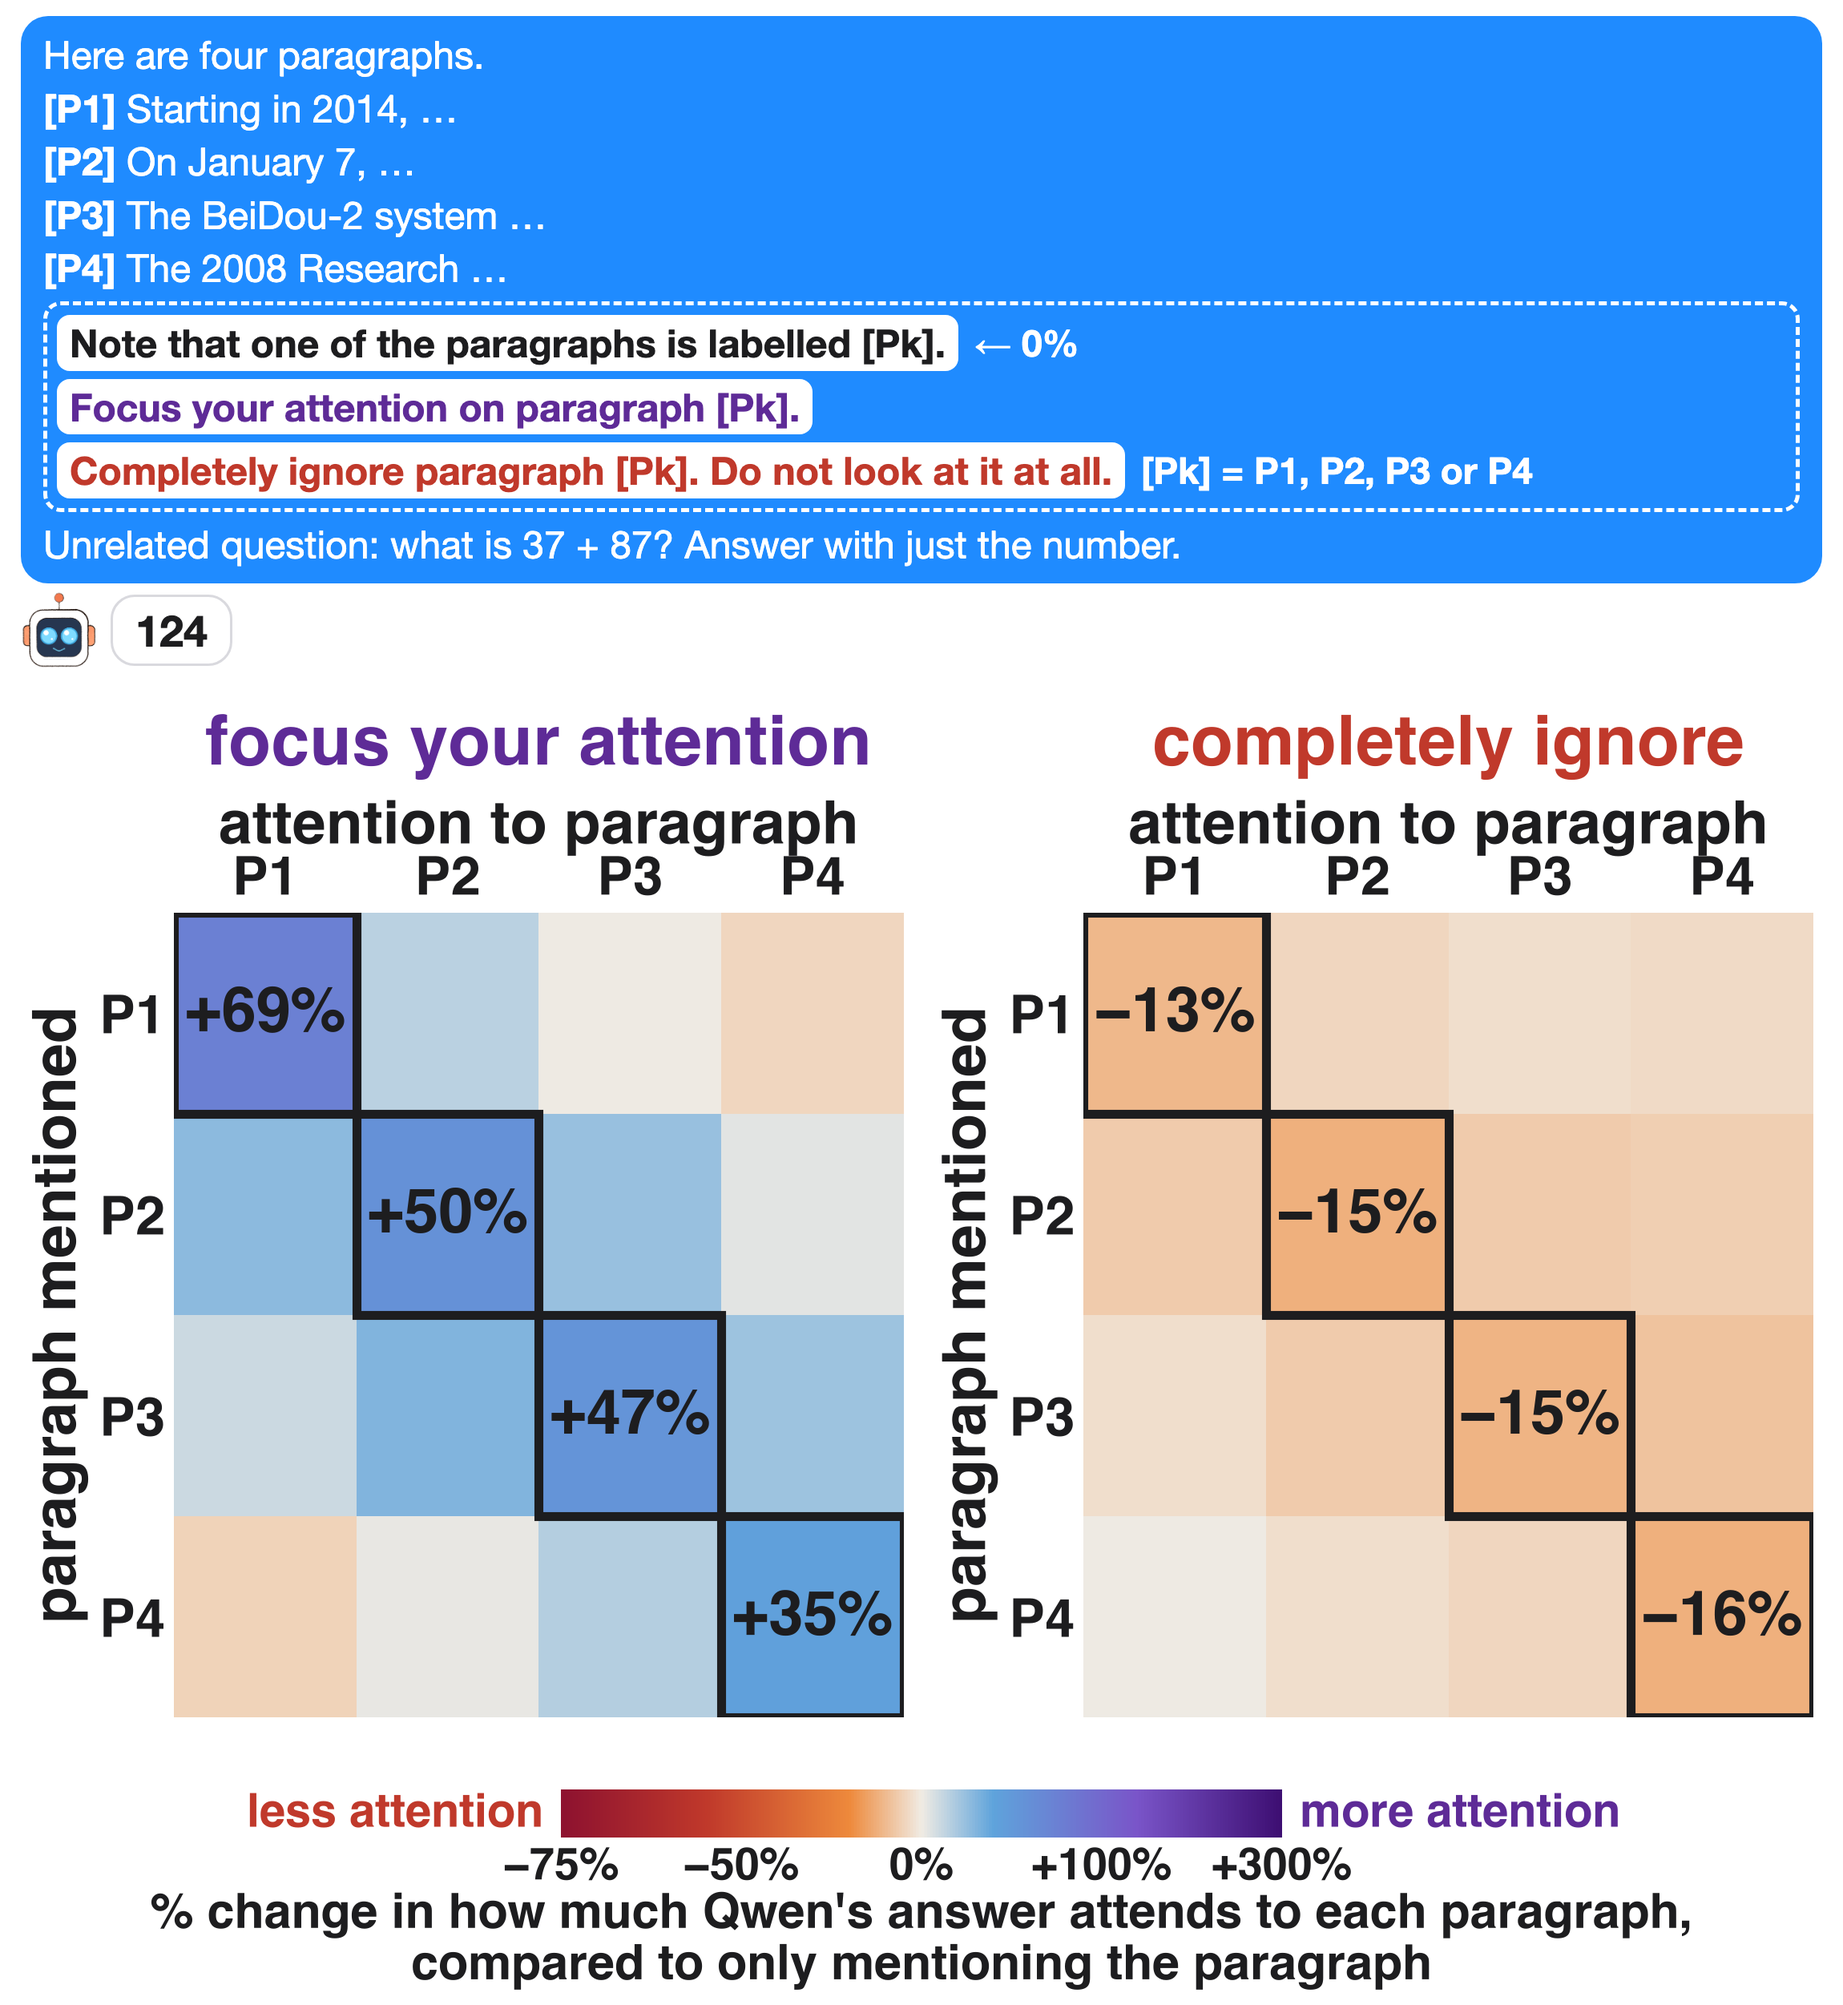
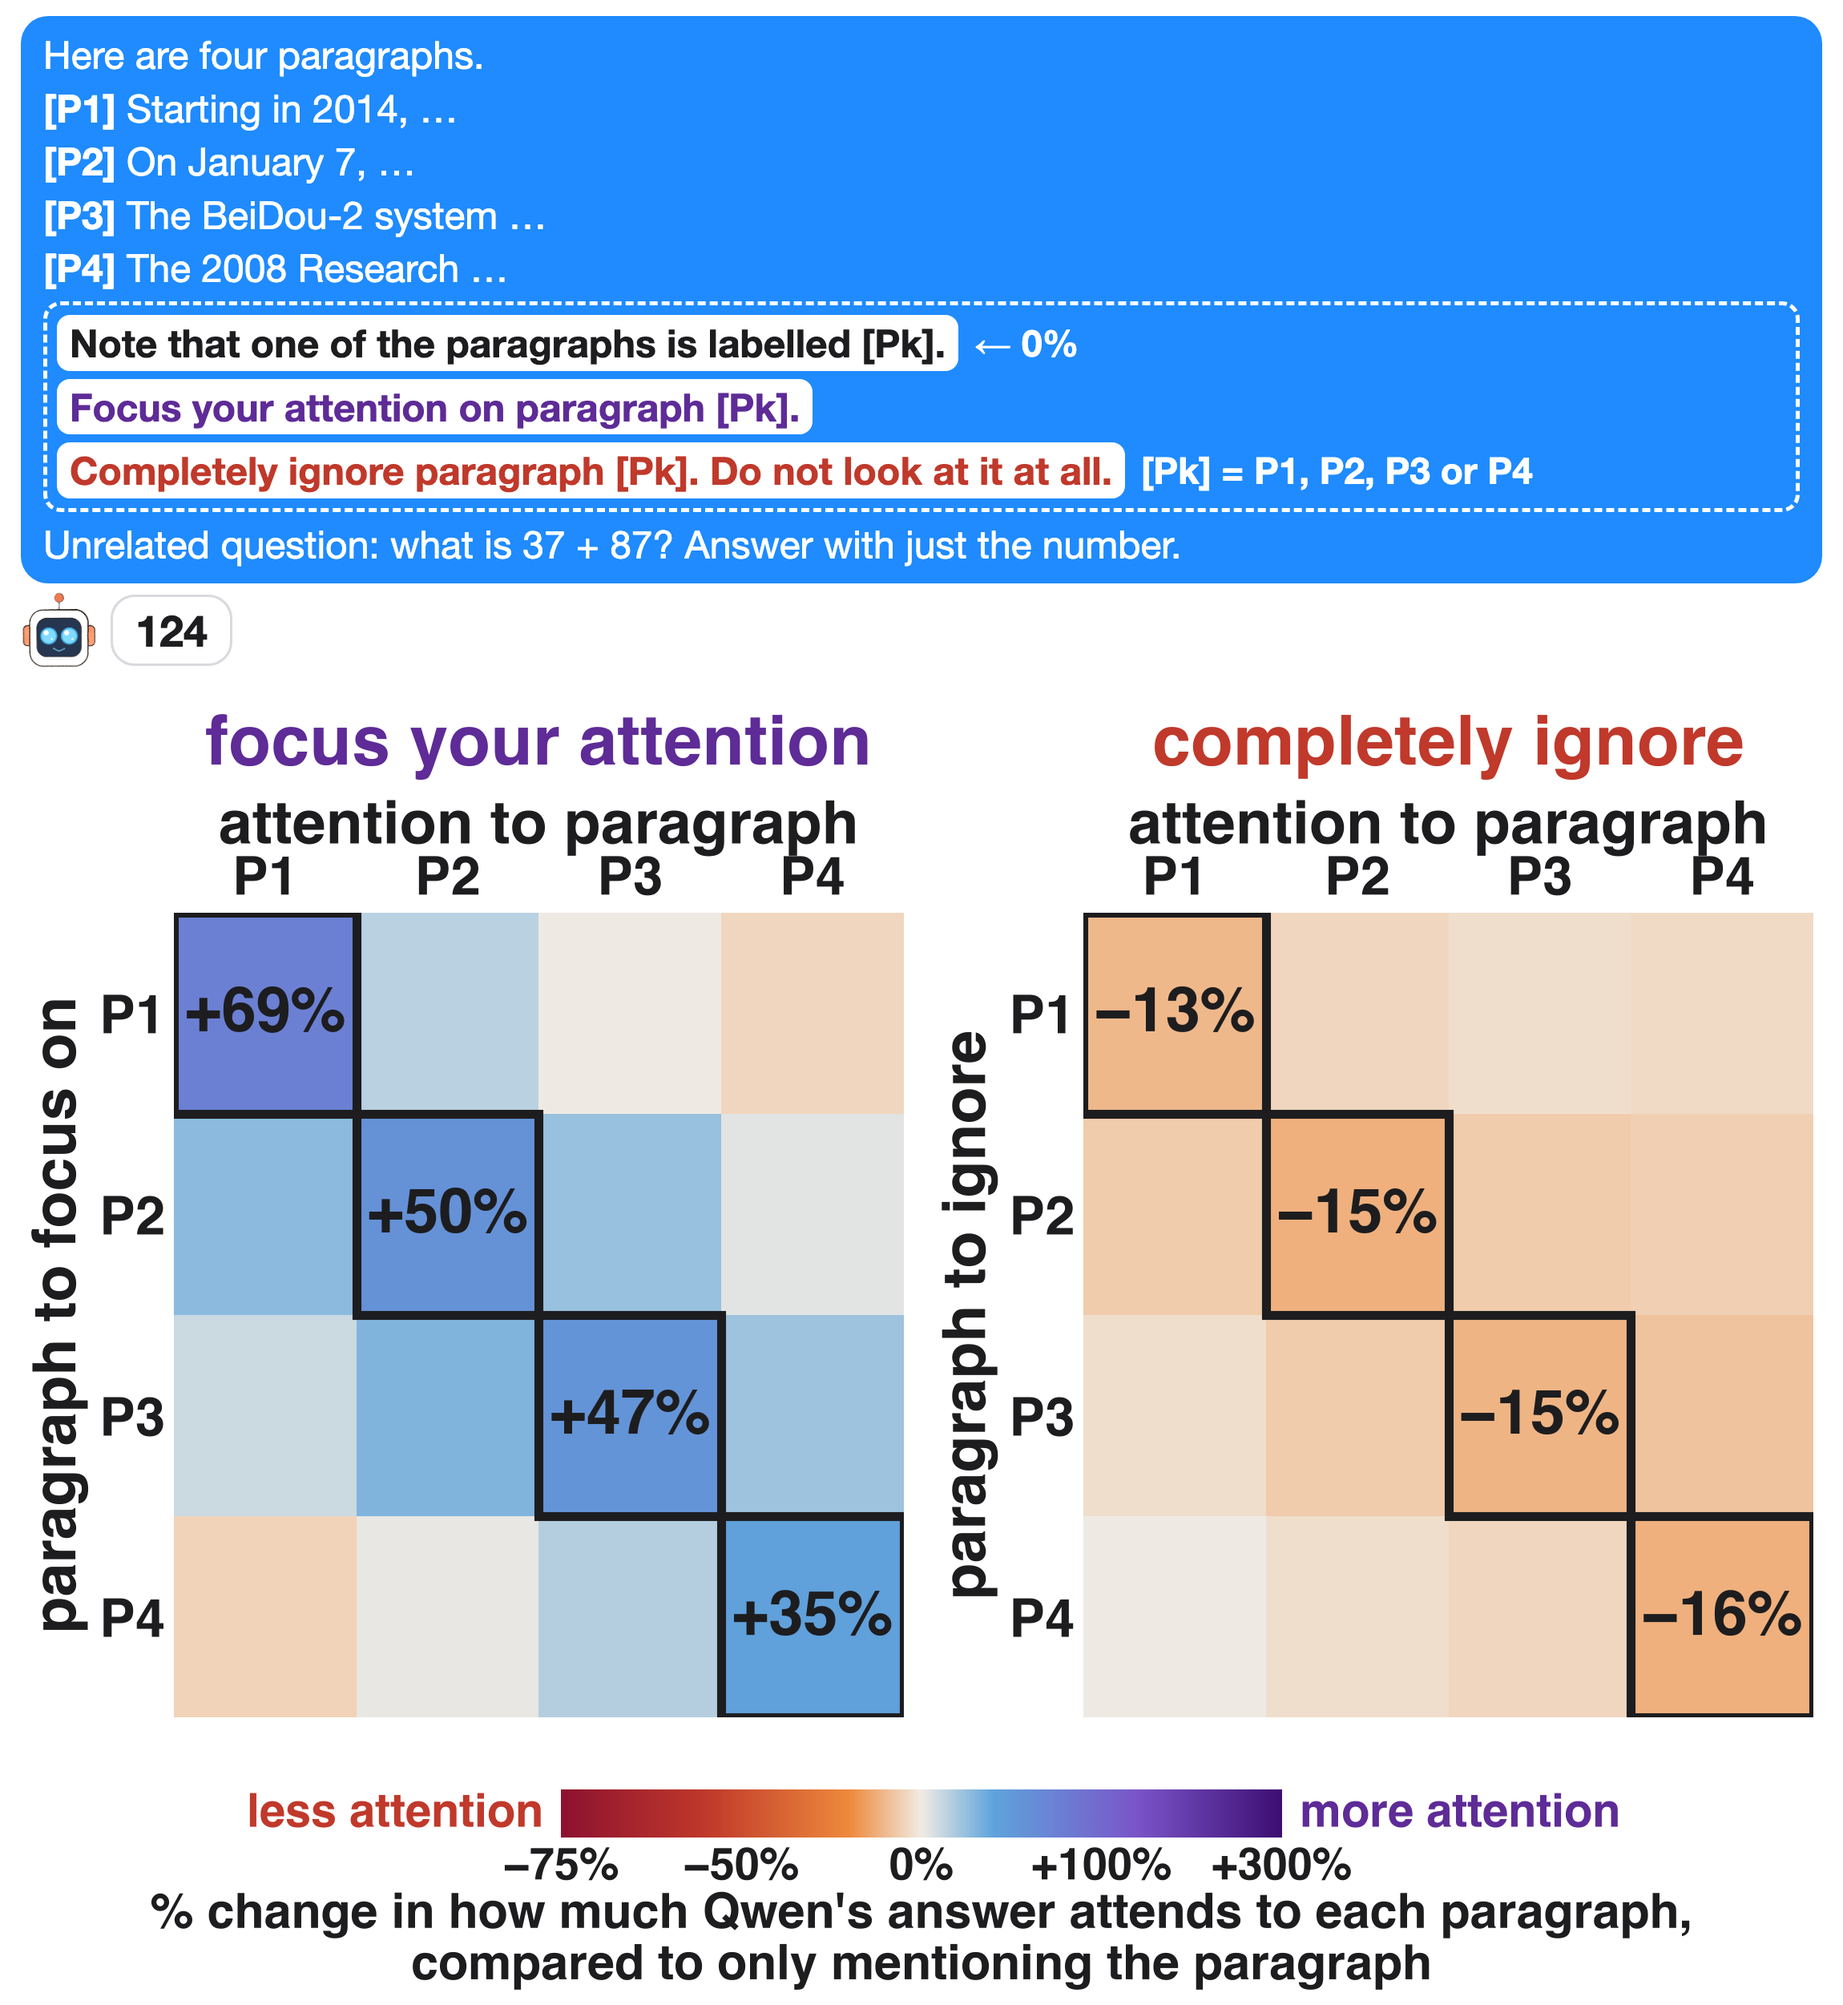
rotate2: y labels 'paragraph to focus on' / 'paragraph to ignore'

Changed region(s): [[0.4939, 0.4988, 0.5557, 0.8106], [0.0, 0.4988, 0.0617, 0.8106]]

diff --git a/figures/rotate2_fig.py b/figures/rotate2_fig.py
@@ -23,7 +23,7 @@ W = 2248
 fig = plt.figure(figsize=(W / 100, 16.6))
 axs = [fig.add_axes([0.085, 0.215, 0.405, 0.605]), fig.add_axes([0.59, 0.215, 0.405, 0.605])]
 fmt = lambda v: MN(f"{v:+.0f}%") if round(v) else "0%"
-for a, c, title, col, verb in zip(axs, ["focus", "ignore"], ["focus your attention", "completely ignore"], [PURPLE, RED], ["gains", "loses"]):
+for a, c, title, col, verb, ylab in zip(axs, ["focus", "ignore"], ["focus your attention", "completely ignore"], [PURPLE, RED], ["gains", "loses"], ["paragraph to focus on", "paragraph to ignore"]):
     a.imshow(L2[c], cmap=DIV, norm=PCTNORM, aspect="auto")
     for k in range(4):
         for m in range(4):
@@ -34,7 +34,7 @@ for a, c, title, col, verb in zip(axs, ["focus", "ignore"], ["focus your attenti
     a.xaxis.tick_top(); a.xaxis.set_label_position("top"); a.tick_params(length=0, pad=8, labelsize=48)
     for t in a.get_xticklabels() + a.get_yticklabels(): t.set_fontweight("bold")
     a.set_xlabel("attention to paragraph", fontsize=54, fontweight="bold", labelpad=10)
-    a.set_ylabel("paragraph mentioned", fontsize=54, fontweight="bold", labelpad=10)
+    a.set_ylabel(ylab, fontsize=54, fontweight="bold", labelpad=10)
     for s_ in a.spines.values(): s_.set_visible(False)
     x0 = a.get_position().x0; xc = x0 + a.get_position().width / 2
     a.text(0.5, 1.165, title, transform=a.transAxes, ha="center", va="bottom", fontsize=62, fontweight="bold", color=col)
